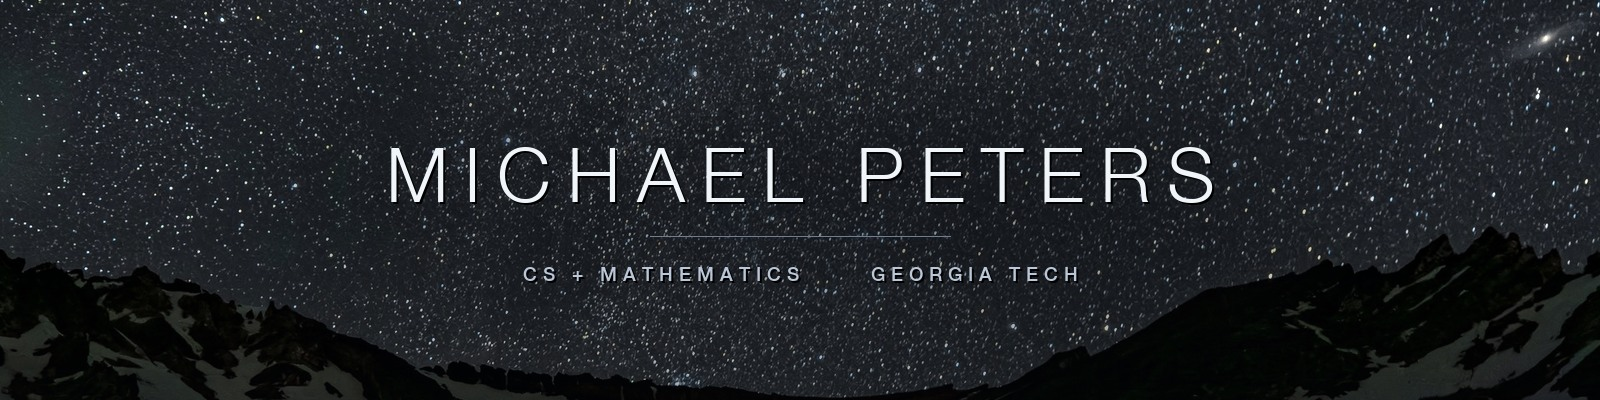
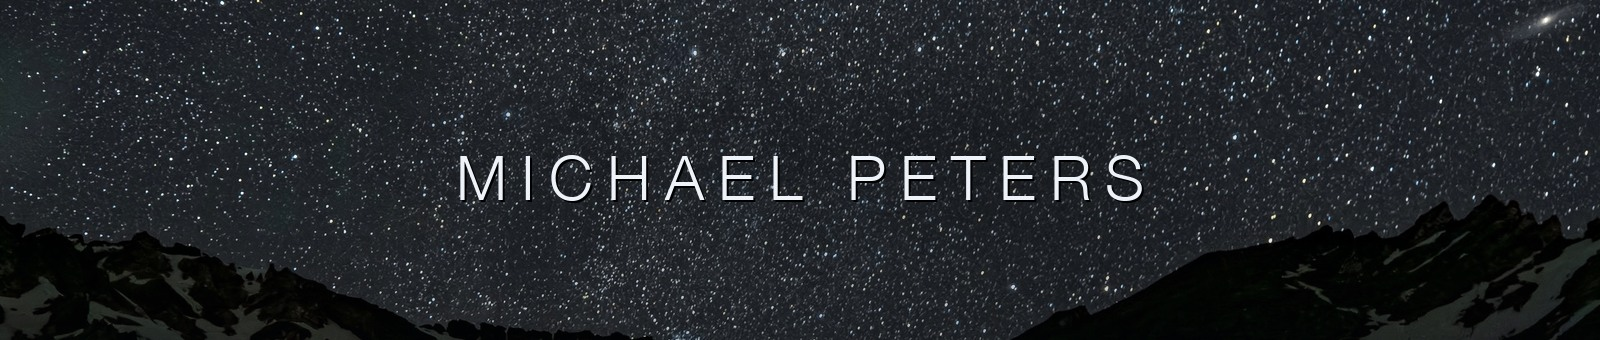
Simplify README: remove badge walls and stat-card pile-up
Replace 30 shields badges with a plain grouped stack table and the
stat-card stack with a single activity summary. Rewrite project
entries with concrete detail. Reduce banner to a wordmark.

diff --git a/README.md b/README.md
@@ -1,132 +1,51 @@
-<!-- ────────────────────────────  BANNER  ──────────────────────────── -->
 <p align="center">
   <img src="https://raw.githubusercontent.com/michaelpeters-dev/michaelpeters-dev/main/assets/banner.jpg"
        alt="Michael Peters" width="100%" />
 </p>
 
-<p align="center">
-  <a href="https://michaelpeters.tech"><img src="https://img.shields.io/badge/Portfolio-161B22?style=flat-square&logo=vercel&logoColor=9BA9BD" height="26"/></a>
-  <a href="https://www.linkedin.com/in/michael-peters-b497912a3/"><img src="https://img.shields.io/badge/LinkedIn-161B22?style=flat-square&logo=linkedin&logoColor=9BA9BD" height="26"/></a>
-  <a href="mailto:michaelcpeters115@gmail.com"><img src="https://img.shields.io/badge/Email-161B22?style=flat-square&logo=maildotru&logoColor=9BA9BD" height="26"/></a>
-  <img src="https://img.shields.io/badge/Atlanta,_GA-161B22?style=flat-square&logo=googlemaps&logoColor=9BA9BD" height="26"/>
-</p>
+I'm a Computer Science and Mathematics student at Georgia Tech. Recent work spans an x86
+bootloader written in assembly, a machine-learning platform for financial forecasting, and a
+spatial-computing accessibility app for Apple Vision Pro. I spend most of my time in Neovim.
 
----
+[michaelpeters.tech](https://michaelpeters.tech) &nbsp;·&nbsp; [LinkedIn](https://www.linkedin.com/in/michael-peters-b497912a3/) &nbsp;·&nbsp; [michaelcpeters115@gmail.com](mailto:michaelcpeters115@gmail.com)
 
-## About
+## Work
 
-Computer Science and Mathematics student at the **Georgia Institute of Technology**.
+**[LedgerAI](https://github.com/michaelpeters-dev/Riskify)** — Full-stack ML platform for financial
+forecasting and anomaly detection, with generated executive summaries.
+TypeScript, React, Node. &nbsp;[Demo ↗](https://youtu.be/JAuonCzHhUY)
 
-I work across an unusually wide slice of the stack — from x86 boot sectors written in
-assembly, to machine-learning finance platforms, to spatial computing on Apple Vision Pro.
-The common thread is a preference for understanding systems at the level below the one
-I'm working at.
+**[Context-Aware Object Reader](https://github.com/michaelpeters-dev/Hack-Harvard)** — Accessibility
+system for Apple Vision Pro: a spatial visionOS app, an iOS companion for continuous streaming, and a
+web console letting remote helpers see the wearer's view and respond. Swift, RealityKit, WebRTC,
+Python backend. Built at HackHarvard 2025.
 
-- Currently building **StageZeroOS**, a minimal x86 operating system focused on the earliest stages of boot
-- Interested in low-level systems, compilers, applied ML, and developer tooling
-- Most at home in Neovim and a terminal — my full editor config is public below
+**[YuCode](https://github.com/michaelpeters-dev/HackMIT_2025)** — Interactive coding-education
+platform built at HackMIT 2025, structured around the gaps left by conventional course-based
+learning. TypeScript, Next.js.
 
----
+**[StageZeroOS](https://github.com/michaelpeters-dev/StageZeroOS)** — Minimal x86 operating system
+covering the bootloader and the earliest stages of machine startup. Assembly. In progress.
 
-## Selected Work
+**[nvimconfig](https://github.com/michaelpeters-dev/nvimconfig)** — My Neovim and Alacritty setup:
+LSP, completion, and a competitive-programming workflow. Lua.
 
-| Project | Description | Stack |
-|---|---|---|
-| **[LedgerAI](https://github.com/michaelpeters-dev/Riskify)** · [demo](https://youtu.be/JAuonCzHhUY) | Full-stack ML finance platform for forecasting, anomaly detection, and predictive modeling, with executive-summary reporting. | `TypeScript` `React` `Node.js` |
-| **[YuCode](https://github.com/michaelpeters-dev/HackMIT_2025)** | Interactive coding-education platform built at **HackMIT 2025**, designed around the gaps left by conventional course-based learning. | `TypeScript` `Next.js` |
-| **[Context-Aware Object Reader](https://github.com/michaelpeters-dev/Hack-Harvard)** | Accessibility platform for **Apple Vision Pro** with an iOS companion for 24/7 streaming and a web console for remote helpers. Built at **HackHarvard 2025**. | `Swift` `RealityKit` `WebRTC` `Python` |
-| **[StageZeroOS](https://github.com/michaelpeters-dev/StageZeroOS)** | Minimal x86 operating system exploring the bootloader and the earliest stages of machine startup. | `Assembly` `x86` |
-| **[nvimconfig](https://github.com/michaelpeters-dev/nvimconfig)** | My personal Neovim and Alacritty configuration — LSP, completion, and a competitive-programming workflow. | `Lua` |
-| **[Portfolio](https://michaelpeters.tech)** | Responsive, animated personal site showcasing projects and background. | `JavaScript` `React` |
+## Stack
 
----
+|  |  |
+|---|---|
+| **Systems** | C++, Rust, x86 assembly |
+| **Web** | TypeScript, JavaScript, React, Next.js, Node, Express |
+| **Data & ML** | Python, TensorFlow |
+| **Also** | Java, Spring Boot, Swift, Lua, Docker, Supabase, Firebase, Git |
 
-## Toolkit
-
-**Languages**
-
-<p>
-  <img src="https://img.shields.io/badge/Python-161B22?style=flat-square&logo=python&logoColor=9BA9BD" height="26"/>
-  <img src="https://img.shields.io/badge/C%2B%2B-161B22?style=flat-square&logo=cplusplus&logoColor=9BA9BD" height="26"/>
-  <img src="https://img.shields.io/badge/Java-161B22?style=flat-square&logo=openjdk&logoColor=9BA9BD" height="26"/>
-  <img src="https://img.shields.io/badge/TypeScript-161B22?style=flat-square&logo=typescript&logoColor=9BA9BD" height="26"/>
-  <img src="https://img.shields.io/badge/JavaScript-161B22?style=flat-square&logo=javascript&logoColor=9BA9BD" height="26"/>
-  <img src="https://img.shields.io/badge/Rust-161B22?style=flat-square&logo=rust&logoColor=9BA9BD" height="26"/>
-  <img src="https://img.shields.io/badge/Swift-161B22?style=flat-square&logo=swift&logoColor=9BA9BD" height="26"/>
-  <img src="https://img.shields.io/badge/Lua-161B22?style=flat-square&logo=lua&logoColor=9BA9BD" height="26"/>
-</p>
-
-**Frameworks & Libraries**
-
-<p>
-  <img src="https://img.shields.io/badge/React-161B22?style=flat-square&logo=react&logoColor=9BA9BD" height="26"/>
-  <img src="https://img.shields.io/badge/Next.js-161B22?style=flat-square&logo=nextdotjs&logoColor=9BA9BD" height="26"/>
-  <img src="https://img.shields.io/badge/Node.js-161B22?style=flat-square&logo=nodedotjs&logoColor=9BA9BD" height="26"/>
-  <img src="https://img.shields.io/badge/Express-161B22?style=flat-square&logo=express&logoColor=9BA9BD" height="26"/>
-  <img src="https://img.shields.io/badge/Spring_Boot-161B22?style=flat-square&logo=springboot&logoColor=9BA9BD" height="26"/>
-  <img src="https://img.shields.io/badge/TensorFlow-161B22?style=flat-square&logo=tensorflow&logoColor=9BA9BD" height="26"/>
-</p>
-
-**Infrastructure & Tooling**
-
-<p>
-  <img src="https://img.shields.io/badge/Docker-161B22?style=flat-square&logo=docker&logoColor=9BA9BD" height="26"/>
-  <img src="https://img.shields.io/badge/Supabase-161B22?style=flat-square&logo=supabase&logoColor=9BA9BD" height="26"/>
-  <img src="https://img.shields.io/badge/Firebase-161B22?style=flat-square&logo=firebase&logoColor=9BA9BD" height="26"/>
-  <img src="https://img.shields.io/badge/Git-161B22?style=flat-square&logo=git&logoColor=9BA9BD" height="26"/>
-  <img src="https://img.shields.io/badge/Neovim-161B22?style=flat-square&logo=neovim&logoColor=9BA9BD" height="26"/>
-  <img src="https://img.shields.io/badge/Figma-161B22?style=flat-square&logo=figma&logoColor=9BA9BD" height="26"/>
-</p>
-
----
-
-## Coding Activity
+## Activity
 
 <p align="center">
-  <img src="https://github-profile-summary-cards.vercel.app/api/cards/profile-details?username=michaelpeters-dev&theme=github_dark" width="98%" alt="Profile summary"/>
+  <img src="https://github-profile-summary-cards.vercel.app/api/cards/profile-details?username=michaelpeters-dev&theme=github_dark" width="100%" alt="GitHub activity summary"/>
 </p>
 
-<p align="center">
-  <img src="https://github-profile-summary-cards.vercel.app/api/cards/stats?username=michaelpeters-dev&theme=github_dark" height="190" alt="Stats"/>
-  <img src="https://github-profile-summary-cards.vercel.app/api/cards/repos-per-language?username=michaelpeters-dev&theme=github_dark" height="190" alt="Top languages by repository"/>
-</p>
-
-<p align="center">
-  <img src="https://github-profile-summary-cards.vercel.app/api/cards/most-commit-language?username=michaelpeters-dev&theme=github_dark" height="190" alt="Top languages by commit"/>
-  <img src="https://github-profile-summary-cards.vercel.app/api/cards/productive-time?username=michaelpeters-dev&theme=github_dark&utcOffset=-4" height="190" alt="Most productive hours"/>
-</p>
-
-<p align="center">
-  <img src="https://streak-stats.demolab.com/?user=michaelpeters-dev&hide_border=false&background=0D1117&border=1F2733&stroke=1F2733&ring=9BA9BD&fire=E6EDF3&currStreakNum=E6EDF3&sideNums=8B98AB&currStreakLabel=8B98AB&sideLabels=8B98AB&dates=6E7A8C" height="170" alt="Contribution streak"/>
-</p>
-
-<p align="center">
-  <img src="https://github-readme-activity-graph.vercel.app/graph?username=michaelpeters-dev&bg_color=0D1117&color=E6EDF3&line=9BA9BD&point=E6EDF3&area_color=1F2733&title_color=E6EDF3&area=true&hide_border=true&custom_title=Contribution%20Activity" width="98%" alt="Contribution activity graph"/>
-</p>
-
-### WakaTime
-
-Time tracked automatically across **Neovim**, **VS Code**, **Codex CLI**, and the browser.
-The block below is refreshed daily by a scheduled GitHub Action.
-
-<!-- Uncomment once your WakaTime profile is public (see repo setup notes):
-<p align="center">
-  <img src="https://wakatime.com/badge/user/b8f2c837-a46c-430b-9167-9e972fbd9be8.svg" alt="Total time coded"/>
-</p>
--->
+Editor time, tracked automatically with WakaTime and refreshed daily:
 
 <!--START_SECTION:waka-->
-<!-- The scheduled workflow writes your language, editor and project breakdown here. -->
 <!--END_SECTION:waka-->
-
----
-
-## Connect
-
-<p align="center">
-  <a href="https://www.linkedin.com/in/michael-peters-b497912a3/"><img src="https://img.shields.io/badge/LinkedIn-161B22?style=flat-square&logo=linkedin&logoColor=9BA9BD" height="28"/></a>
-  <a href="mailto:michaelcpeters115@gmail.com"><img src="https://img.shields.io/badge/Gmail-161B22?style=flat-square&logo=gmail&logoColor=9BA9BD" height="28"/></a>
-  <a href="https://michaelpeters.tech"><img src="https://img.shields.io/badge/Website-161B22?style=flat-square&logo=googlechrome&logoColor=9BA9BD" height="28"/></a>
-  <a href="https://discord.com/users/peters0085_82034"><img src="https://img.shields.io/badge/Discord-161B22?style=flat-square&logo=discord&logoColor=9BA9BD" height="28"/></a>
-  <a href="https://www.instagram.com/michael_peters_10/"><img src="https://img.shields.io/badge/Instagram-161B22?style=flat-square&logo=instagram&logoColor=9BA9BD" height="28"/></a>
-</p>
